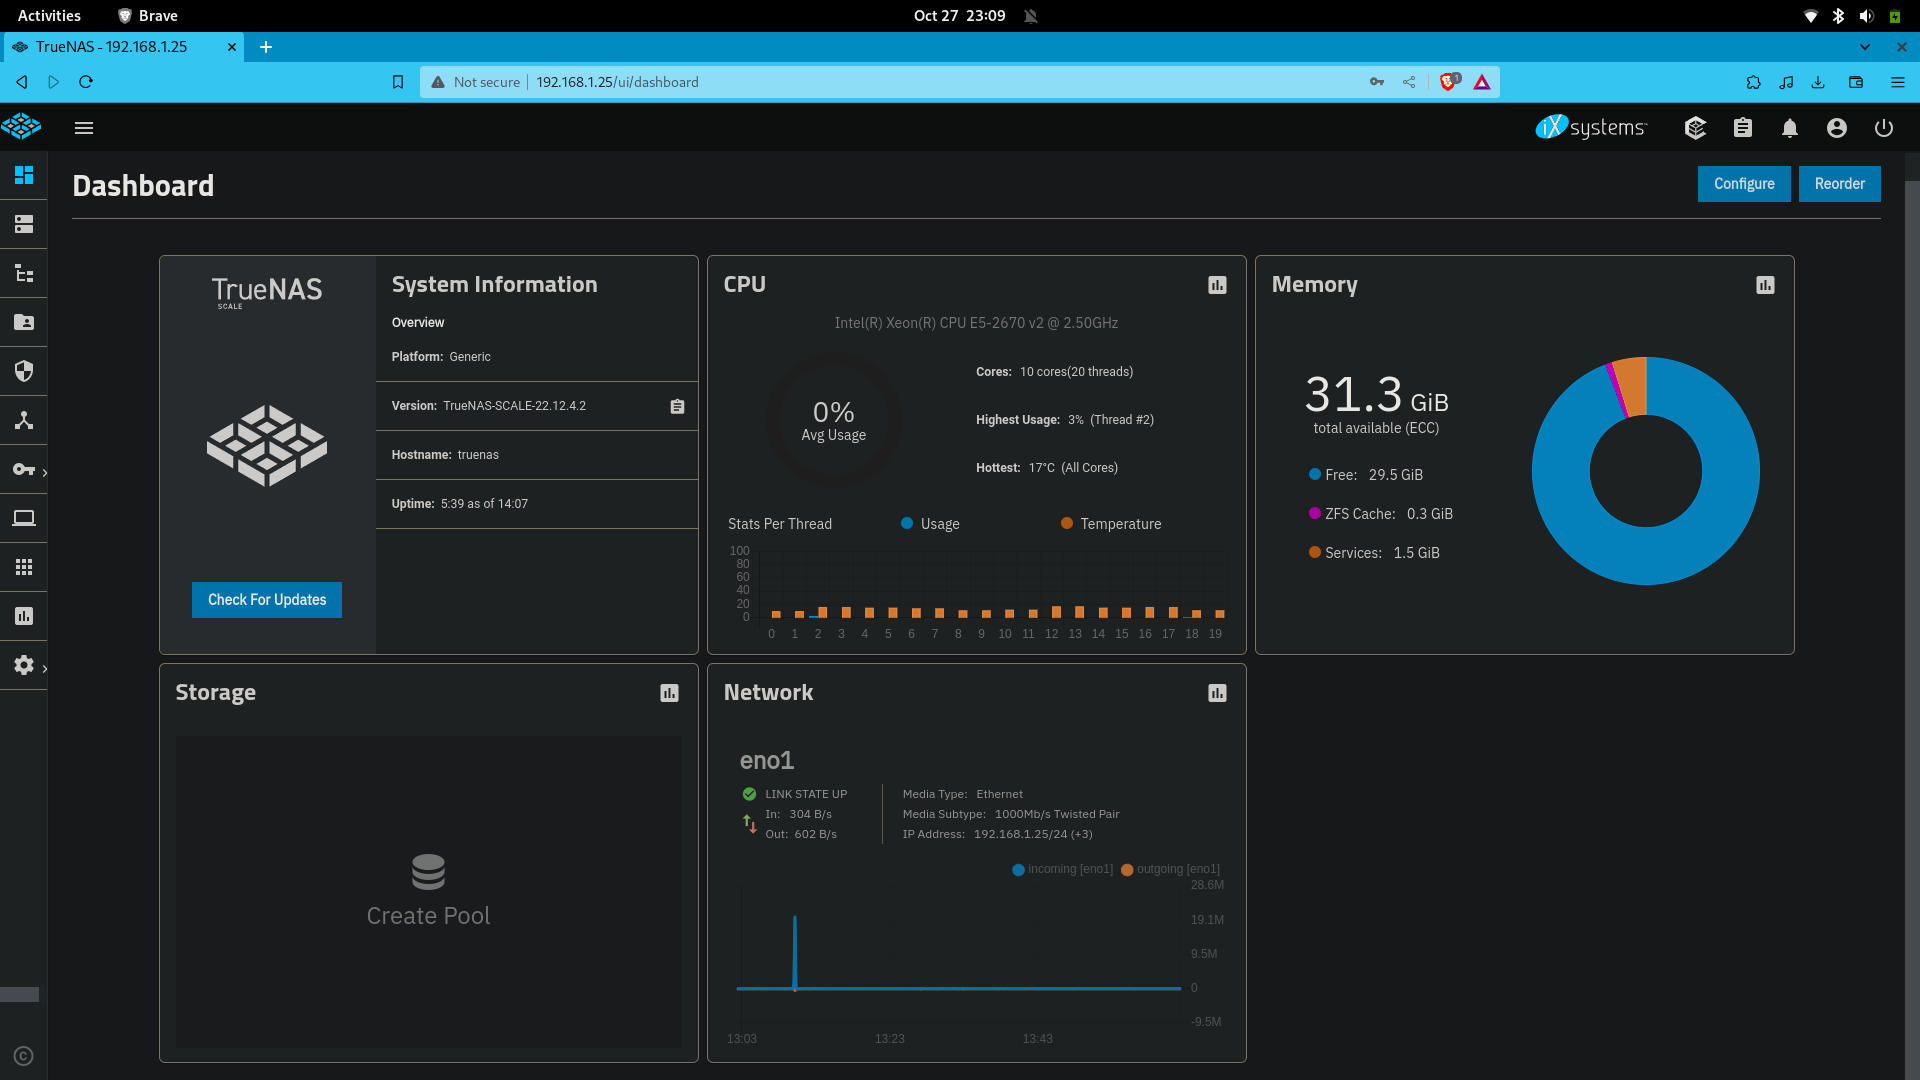
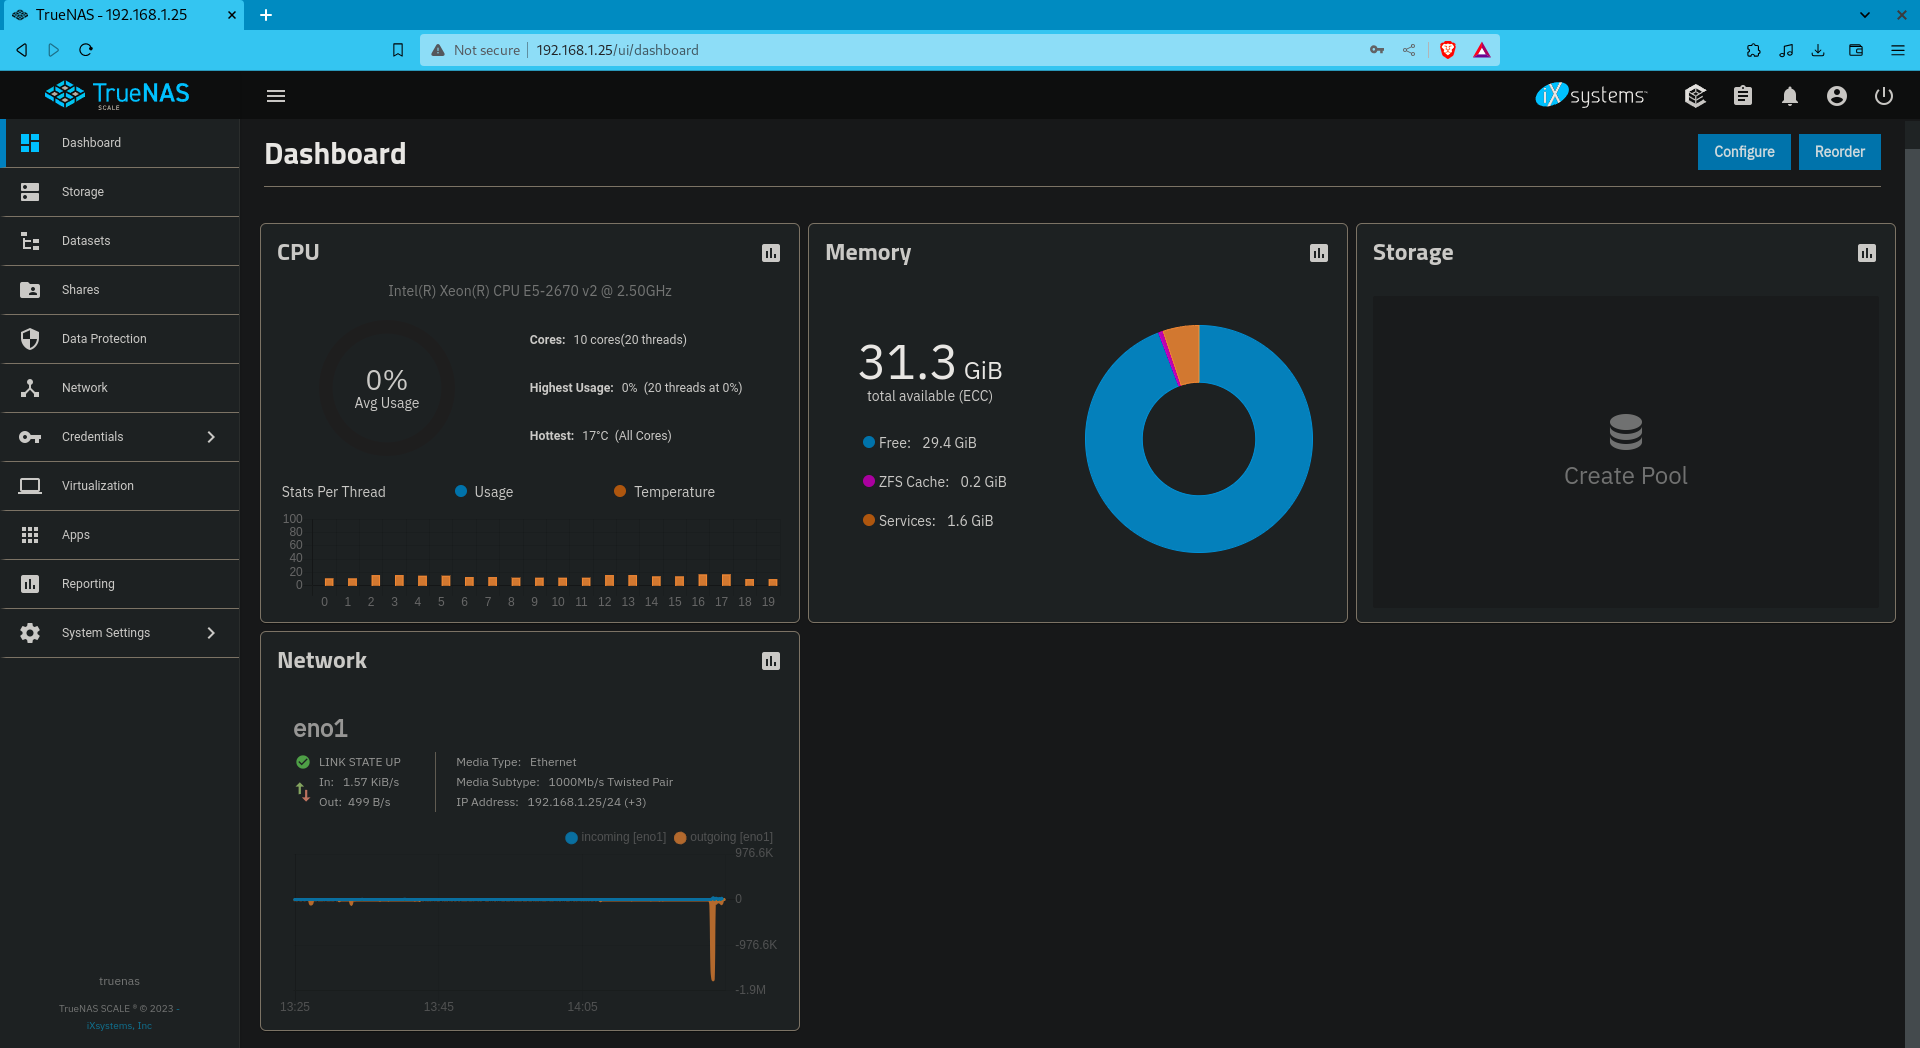
.

diff --git a/README.md b/README.md
@@ -4,6 +4,8 @@ Homeserv's big brother. Aimed at helping you to set up your infrastructure very 
 
 Most of this tutorial comes from the official website : https://www.truenas.com/docs/scale/22.12/scaletutorials/toptoolbar/
 
+For information, I use Fedora Linux 38 (Workstation Edition).
+
 ## Table of Contents
 1. [Installation of TrueNAS Scale](#installation)
 2. [Disk Management and RAID Configuration](#disk-management)
@@ -22,6 +24,8 @@ Most of this tutorial comes from the official website : https://www.truenas.com/
 This tutorial describes the web interface configuration
 
 ### Dashboard
+
+Once you are logged in, you can see the dashboard. Wdgets can be reorganized by clicking on ```Reoarder``` or ```Configure``` in the top right corner.
 
 ![Alt text](image.png)
 
